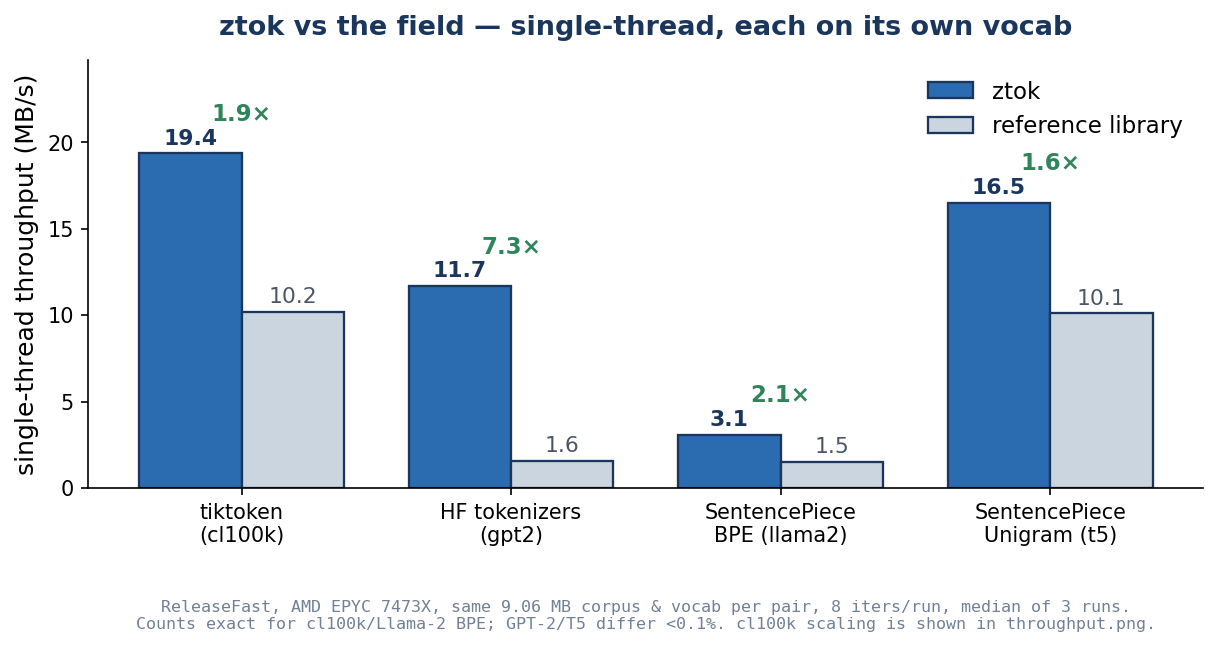
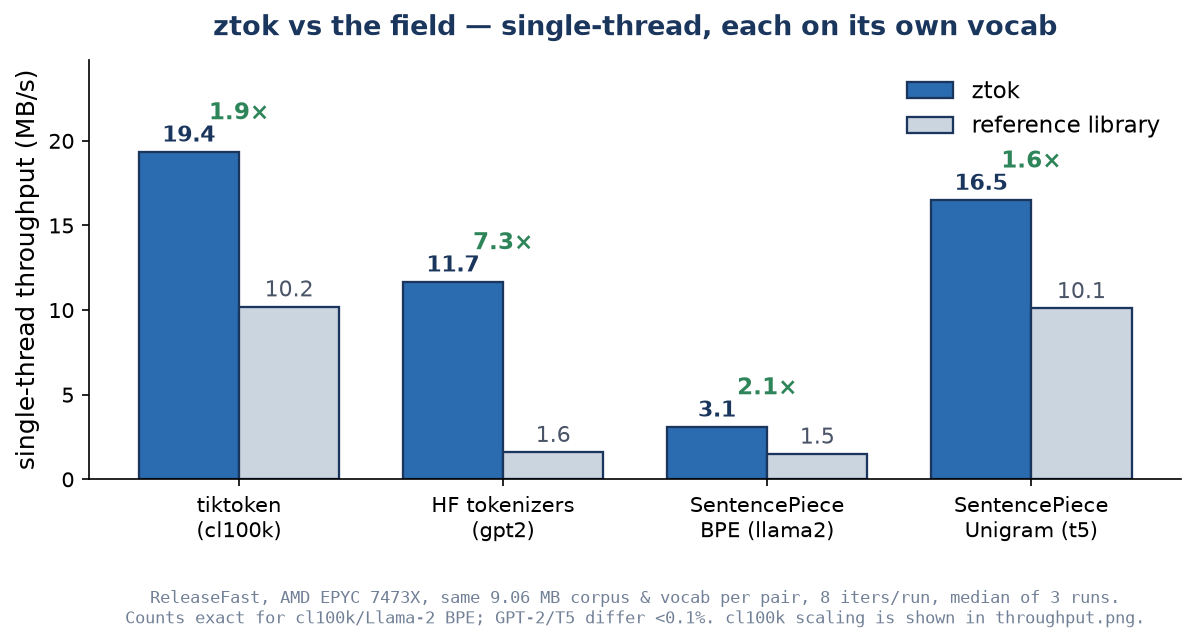
docs: publish exact-output GigaToken benchmark

diff --git a/docs/gigatoken_chart.py b/docs/gigatoken_chart.py
@@ -1,0 +1,108 @@
+#!/usr/bin/env python3
+"""Render the exact-output GPT-2 comparison (docs/gigatoken.png).
+
+The chart intentionally keeps ztok's persistent-process cold/warm measurements
+separate from GigaToken's fresh-process samples. Both implementations encode the
+same 500,000,000 bytes with the same GPT-2 vocabulary and emit identical IDs.
+
+Regenerate with: python3 docs/gigatoken_chart.py
+"""
+
+import json
+from pathlib import Path
+
+import matplotlib
+
+matplotlib.use("Agg")
+import matplotlib.pyplot as plt
+import numpy as np
+
+
+HERE = Path(__file__).resolve().parent
+DATA = json.loads((HERE / "benchmark_data.json").read_text())["gpt2_gigatoken"]
+
+giga = DATA["gigatoken"]
+contiguous = DATA["ztok"]["contiguous"]
+ragged = DATA["ztok"]["ordered_no_gather"]
+
+labels = [
+    "GigaToken\none-pass median",
+    "ztok contiguous\ncold",
+    "ztok contiguous\nwarm",
+    "ztok no-gather\ncold",
+    "ztok no-gather\nwarm",
+]
+values = [
+    giga["median_mb_s"],
+    contiguous["cold_mb_s"],
+    contiguous["warm_mb_s"],
+    ragged["cold_mb_s"],
+    ragged["warm_mb_s"],
+]
+plot_values = np.asarray(values) / 1000.0
+colors = ["#cbd5e0", "#90cdf4", "#2b6cb0", "#9ae6b4", "#2f855a"]
+
+# Only GigaToken has a cross-process range. ztok's bars are explicit cold/warm
+# summaries from its five-iteration run rather than an error range.
+lower = np.zeros(len(values))
+upper = np.zeros(len(values))
+lower[0] = (giga["median_mb_s"] - giga["minimum_mb_s"]) / 1000.0
+upper[0] = (giga["maximum_mb_s"] - giga["median_mb_s"]) / 1000.0
+
+fig, ax = plt.subplots(figsize=(9.2, 4.9))
+x = np.arange(len(labels))
+bars = ax.bar(
+    x,
+    plot_values,
+    width=0.68,
+    color=colors,
+    edgecolor="#1a365d",
+    linewidth=1.1,
+    yerr=np.vstack([lower, upper]),
+    capsize=6,
+    error_kw=dict(ecolor="#4a5568", lw=1.4),
+)
+
+for bar, value in zip(bars, plot_values):
+    ax.text(
+        bar.get_x() + bar.get_width() / 2,
+        value + 0.07,
+        f"{value:.3f}",
+        ha="center",
+        va="bottom",
+        fontsize=10.5,
+        fontweight="bold",
+        color="#1a365d",
+    )
+
+ax.axhline(giga["median_mb_s"] / 1000.0, color="#718096", linestyle="--", linewidth=1.0, alpha=0.7)
+ax.set_ylabel("throughput (GB/s, decimal)", fontsize=12)
+ax.set_title(
+    "ztok vs GigaToken — GPT-2, 500 MB, 32 workers, exact ID match",
+    fontsize=13,
+    fontweight="bold",
+    color="#1a365d",
+    pad=12,
+)
+ax.set_xticks(x)
+ax.set_xticklabels(labels, fontsize=9.5)
+ax.set_ylim(0, max(giga["maximum_mb_s"] / 1000.0, *plot_values) * 1.16)
+ax.spines[["top", "right"]].set_visible(False)
+ax.tick_params(labelsize=10)
+ax.text(
+    0.5,
+    -0.25,
+    "AMD EPYC 7473X, ReleaseFast, same 500,000,000 bytes and GPT-2 vocab; 108,735,122 identical IDs.\n"
+    "GigaToken whisker = min/max of 10 fresh-process samples; ztok cold/warm = persistent 5-iteration run.",
+    transform=ax.transAxes,
+    ha="center",
+    va="top",
+    fontsize=8.0,
+    color="#718096",
+    family="monospace",
+)
+
+plt.tight_layout()
+output = HERE / "gigatoken.png"
+fig.savefig(output, dpi=150, bbox_inches="tight", facecolor="white")
+print(f"wrote {output}")

diff --git a/README.md b/README.md
@@ -76,6 +76,13 @@ single-thread, same 9 MB corpus and respective vocab per pair:
 
 <sub>Median of three runs: **1.9×** vs tiktoken (cl100k), **7.3×** vs HF tokenizers (gpt2), **2.1×** vs SentencePiece BPE (llama2), **1.6×** vs SentencePiece Unigram (t5). Counts are exact for cl100k/Llama-2 BPE and differ by less than 0.1% for GPT-2/T5. Raw data: `docs/benchmark_data.json`. Regenerate with `python3 docs/competitors_chart.py`.</sub>
 
+For the high-throughput dataset path, ztok now reaches GigaToken-class
+performance on a 500 MB exact-output GPT-2 comparison:
+
+![ztok versus GigaToken GPT-2 throughput on the same 500 MB corpus](docs/gigatoken.png)
+
+<sub>ztok contiguous: **3.145 GB/s cold, 4.143 GB/s warm**; ordered no-gather: **3.552 GB/s cold, 4.339 GB/s warm**. GigaToken median: **4.082 GB/s** across ten fresh-process samples (3.713–4.394 GB/s). Same 500,000,000 bytes, vocabulary, 32 workers, and **108,735,122 bit-identical IDs**. The process-lifetime difference is shown explicitly rather than treated as an apples-to-apples latency result. Raw data: `docs/benchmark_data.json`. Regenerate with `python3 docs/gigatoken_chart.py`.</sub>
+
 ## Beyond bit-identical (post-1.25)
 
 ztok matches tiktoken / HF / SentencePiece bit-for-bit (13/13 pairs at
@@ -199,8 +206,24 @@ pub fn main() !void {
     var results: [3][]ztok.TokenId = undefined;
     try pipe.encodeBatch(a, &pool, &inputs, &results);
     defer for (results) |r| a.free(r);
+
+    // Dataset-scale consumers can skip the final contiguous gather. Chunks
+    // remain in source-byte order and can feed n-gram/engram histograms or
+    // other dataset-derived training-signal builders directly.
+    var ragged = try pipe.encodeChunkedRagged(a, &pool, large_corpus, 1024);
+    defer ragged.deinit();
+    for (ragged.chunks) |chunk| {
+        consumeTokenChunk(chunk.byte_start, chunk.byte_end, chunk.ids);
+    }
 }
 ```
+
+`encodeChunkedRaggedCached` combines the same ordered, non-gathered result
+with a persistent caller-owned `ChunkedEncodeCache` for repeated corpus
+passes. These APIs emit ordinary tokenizer IDs only. The inspectable
+`merge_graph.Graph.relations()` view is kept separate from its immutable
+lookup accelerator so future corpus mapping and engram tooling can use the
+ordered source relations without depending on the current hot-path layout.
 
 ## Python
 
@@ -712,6 +735,28 @@ include/
 refs/               — vendored read-only clones of the reference libs
 COMPARISON.md       — feature matrix vs reference libs
 ```
+
+## Experimental superposition overlays
+
+Superposition is opt-in metadata over ordinary IDs and contextual spans;
+`Pipeline.encode`, batch/streaming APIs, tokenizer files, and vocabulary IDs
+are unchanged.
+
+```bash
+ztok superpose fixed --model tokenizer.json --group-size 4 \
+  --fusion norm-preserving-mean --text "A bright white light." --json
+
+ztok superpose semantic --input semantic_spans.json \
+  --config ccss_config.json --output ccss_plan.json
+ztok superpose inspect --plan ccss_plan.json
+```
+
+Fixed plans use the versioned `ztok.superposition.v1` schema. Cross-caption
+semantic plans use `ztok.semantic_spans.v1` input and `ztok.ccss.v1` output,
+with cross-caption, role/entity, contradiction, and complete-link safety
+constraints. Model embeddings and fusion execution remain outside tokenizer
+core. See [`experiments/superposition/README.md`](experiments/superposition/README.md)
+for the PyTorch adapter and falsification-oriented benchmarks.
 
 ## Roadmap
 

diff --git a/bench/RESULTS.md b/bench/RESULTS.md
@@ -1,5 +1,32 @@
 # Benchmark results — ztok 1.28.0 vs competitors
 
+## GPT-2 dataset throughput versus GigaToken — 2026-08-24
+
+Reference host: AMD EPYC 7473X (24 cores / 48 threads), 32 workers,
+Zig ReleaseFast. Both implementations encoded the same deterministic
+500,000,000-byte FineWeb-derived corpus with the GPT-2 HF ByteLevel BPE
+vocabulary and emitted exactly **108,735,122 identical token IDs**.
+
+| implementation / output shape | cold MB/s | warm MB/s | aggregate MB/s |
+|---|---:|---:|---:|
+| ztok contiguous IDs | 3,145.2 | 4,142.8 | 3,895.7 |
+| ztok ordered no-gather spans | 3,551.7 | 4,338.5 | 4,154.4 |
+| GigaToken fresh-process one-pass | 3,713–4,394 | median 4,081.5 | median 4,081.5 |
+
+The ztok values come from one persistent five-iteration process; “cold”
+is its first iteration and “warm” summarizes subsequent iterations.
+GigaToken commit `fac0114b37120ec8a76362e9ee8e1c742aaafaef` was measured in ten
+independent fresh-process, one-pass samples. Because those lifetimes differ,
+the chart reports the modes separately and does not claim the warm result as
+an end-to-end startup-latency win. The ordered no-gather API returns
+chunk-ordered ID spans and intentionally excludes final contiguous gathering.
+
+Against ztok's pre-optimization measurements on this workload, contiguous
+cold throughput improved from approximately 1,790 to 3,145 MB/s (**+75.7%**),
+and warm throughput from approximately 2,610 to 4,143 MB/s (**+58.7%**).
+Corpus SHA-256, raw samples, shape parameters, and chart inputs are recorded
+in `docs/benchmark_data.json`.
+
 ## 1.28 chart refresh — 2026-07-10
 
 Reference host: AMD EPYC 7473X (24 cores / 48 threads), Zig 0.16,
